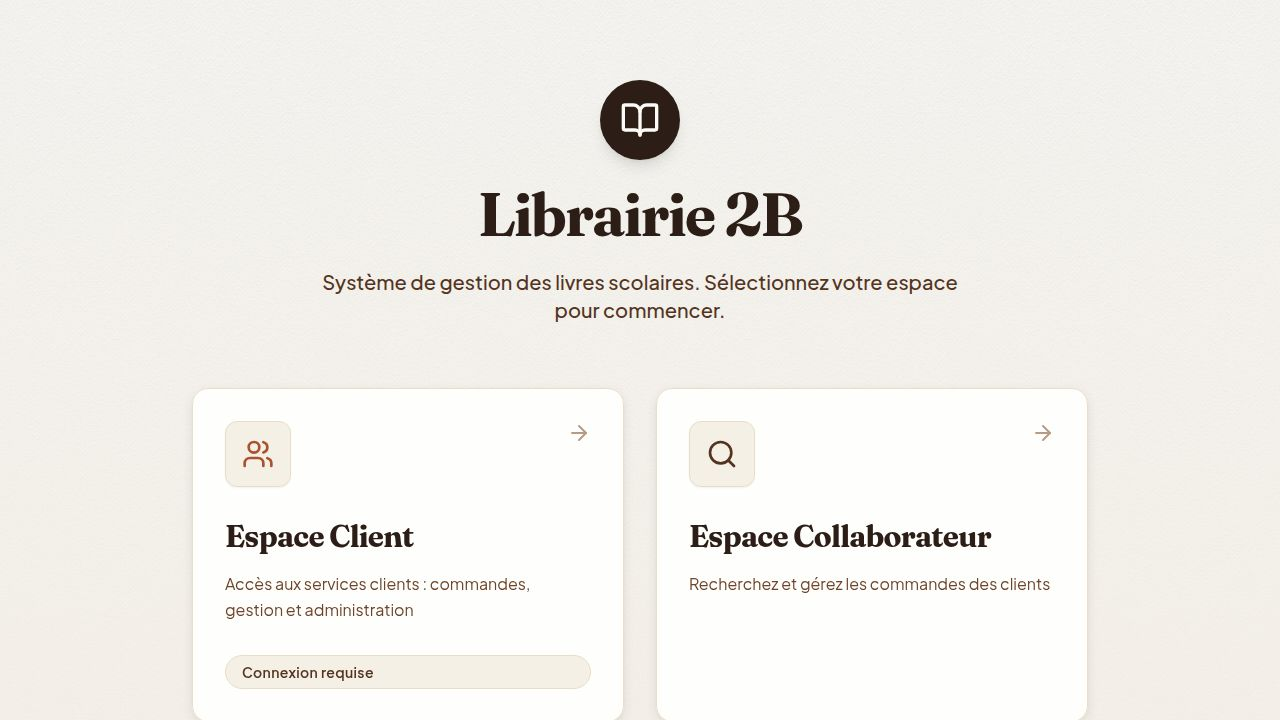
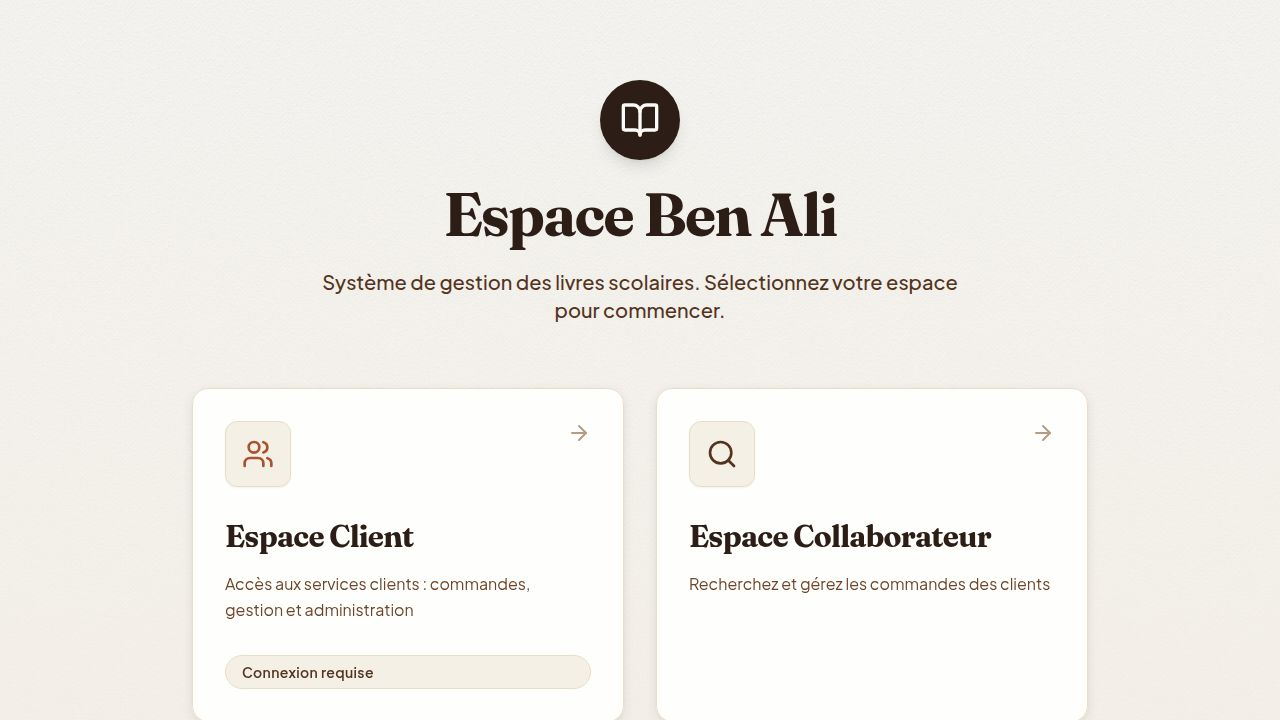
Update branding and application name to Espace Ben Ali
Replace all instances of "Librairie 2B" with "Espace Ben Ali" across the application, including the title, main headings, and footer.

Replit-Commit-Author: Agent
Replit-Commit-Session-Id: e0541afc-aee9-4e9e-8414-6b9b5c84af11
Replit-Commit-Checkpoint-Type: full_checkpoint
Replit-Commit-Event-Id: 65cdd1f1-9f18-4301-8820-651479289135
Replit-Commit-Screenshot-Url: https://storage.googleapis.com/screenshot-production-us-central1/f9ee52ac-2986-4745-a3e3-e6ac7d8afad9/e0541afc-aee9-4e9e-8414-6b9b5c84af11/CPlSBGV
Replit-Helium-Checkpoint-Created: true

Changed region(s): [[0.3438, 0.2444, 0.5312, 0.3361], [0.5625, 0.2444, 0.6562, 0.3361]]

diff --git a/artifacts/librairie-2b/src/App.tsx b/artifacts/librairie-2b/src/App.tsx
@@ -40,7 +40,7 @@ function App() {
             </div>
           </div>
           <h1 className="text-5xl md:text-6xl font-heading font-bold text-espresso-900 mb-6">
-            Librairie 2B
+            Espace Ben Ali
           </h1>
           <p className="text-lg md:text-xl text-espresso-700 max-w-2xl mx-auto font-medium">
             Système de gestion des livres scolaires. Sélectionnez votre espace pour commencer.
@@ -110,7 +110,7 @@ function App() {
         <div className="text-center mt-16">
           <div className="inline-block px-6 py-2 border-t border-parchment-300">
             <p className="text-sm font-medium text-espresso-500 uppercase tracking-widest">
-              © 2025 Librairie 2B
+              © 2025 Espace Ben Ali
             </p>
           </div>
         </div>
@@ -372,7 +372,7 @@ function App() {
                   <BookOpen className="h-6 w-6" />
                 </div>
                 <h1 className="text-2xl font-heading font-bold tracking-tight">
-                  Librairie 2B
+                  Espace Ben Ali
                 </h1>
               </button>
               

diff --git a/artifacts/librairie-2b/index.html b/artifacts/librairie-2b/index.html
@@ -4,7 +4,7 @@
     <meta charset="UTF-8" />
     <link rel="icon" type="image/svg+xml" href="/vite.svg" />
     <meta name="viewport" content="width=device-width, initial-scale=1.0" />
-    <title>Librairie 2B Management System</title>
+    <title>Espace Ben Ali Management System</title>
   </head>
   <body>
     <div id="root"></div>

diff --git a/artifacts/librairie-2b/src/components/ClientForm.tsx b/artifacts/librairie-2b/src/components/ClientForm.tsx
@@ -322,7 +322,7 @@ function ClientForm({ onNavigate }: ClientFormProps) {
           <div className="mb-2">
             <div className="mb-2 text-center border-b border-dashed border-gray-400 pb-2">
               <h1 className="text-xl font-heading font-bold text-black mb-1">
-                LIBRAIRIE 2B
+                ESPACE BEN ALI
               </h1>
               <div className="text-xs text-gray-800 leading-tight uppercase">
                 <p>